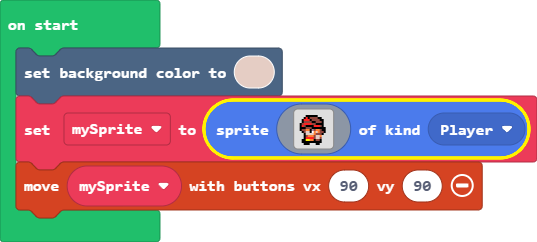
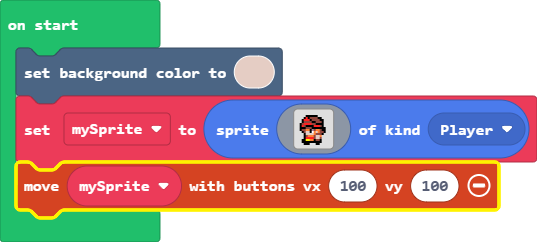
sped up the duck (kid)

Changed region(s): [[0.0, 0.4628, 0.9534, 0.9256], [0.3873, 0.405, 1.0, 0.6364]]

diff --git a/main.ts b/main.ts
@@ -17,4 +17,4 @@ let mySprite = sprites.create(img`
     . . f f f f f f f f f f . . . . 
     . . . f f f . . . f f . . . . . 
     `, SpriteKind.Player)
-controller.moveSprite(mySprite, 90, 90)
+controller.moveSprite(mySprite, 100, 100)
